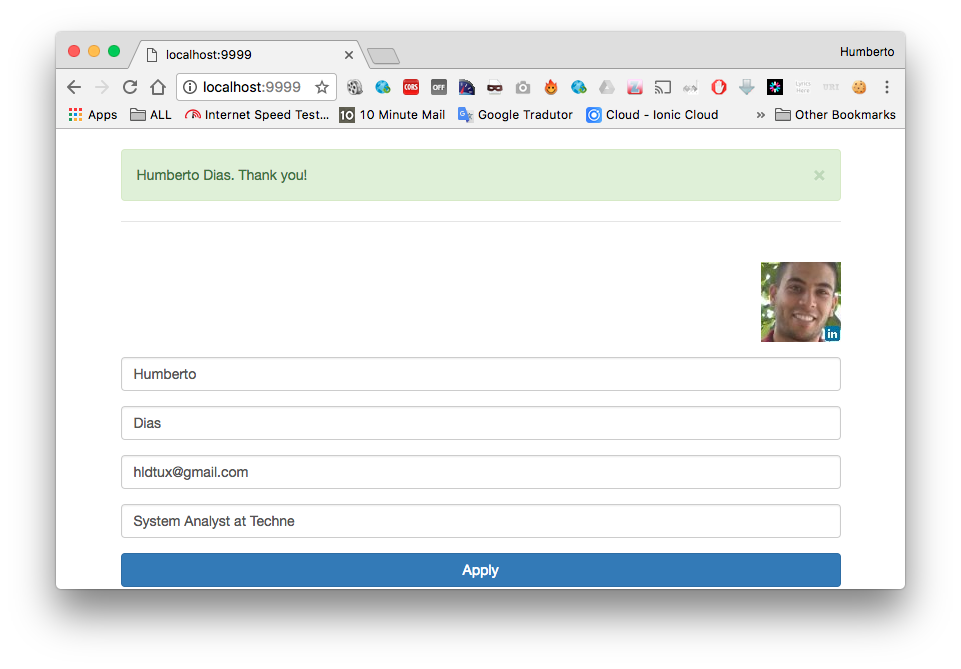
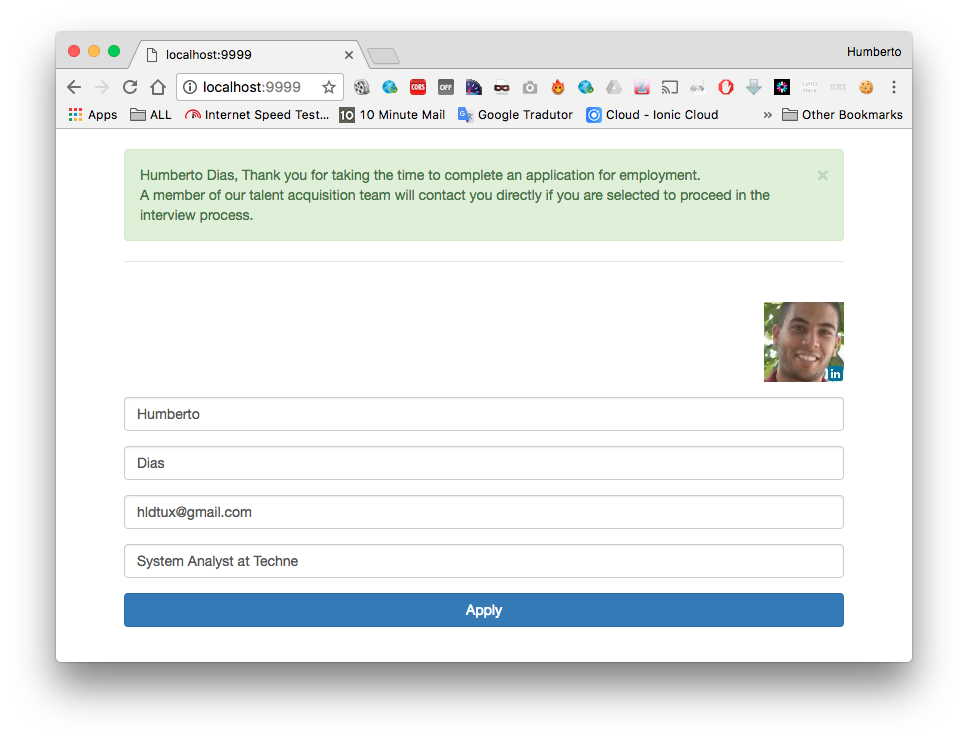
README

diff --git a/index.html b/index.html
@@ -13,7 +13,6 @@
   <script type="text/javascript" src="//platform.linkedin.com/in.js">
     api_key: 78uig8j4a1ia9b
     authorize: false
-    // onLoad:    OnLinkedInFrameworkLoad
     lang: en_US
   </script>
 
@@ -34,7 +33,9 @@
         $('#headline').val(member.headline);
         $('#picture').attr("src", member.pictureUrl);
 
-        $('#out').html(member.firstName + " " + member.lastName + ". Thank you!");
+        out = member.firstName + " " + member.lastName + ", Thank you for taking the time to complete an application for employment." 
+out += "<br>A member of our talent acquisition team will contact you directly if you are selected to proceed in the interview process."
+        $('#out').html(out);
         $('#info').toggleClass('invisible')
 
 
@@ -48,7 +49,7 @@
 
 </head>
 
-<body ng-app='mainapp' ng-controller='firstcontroll'>
+<body>
 
   <br>
 
